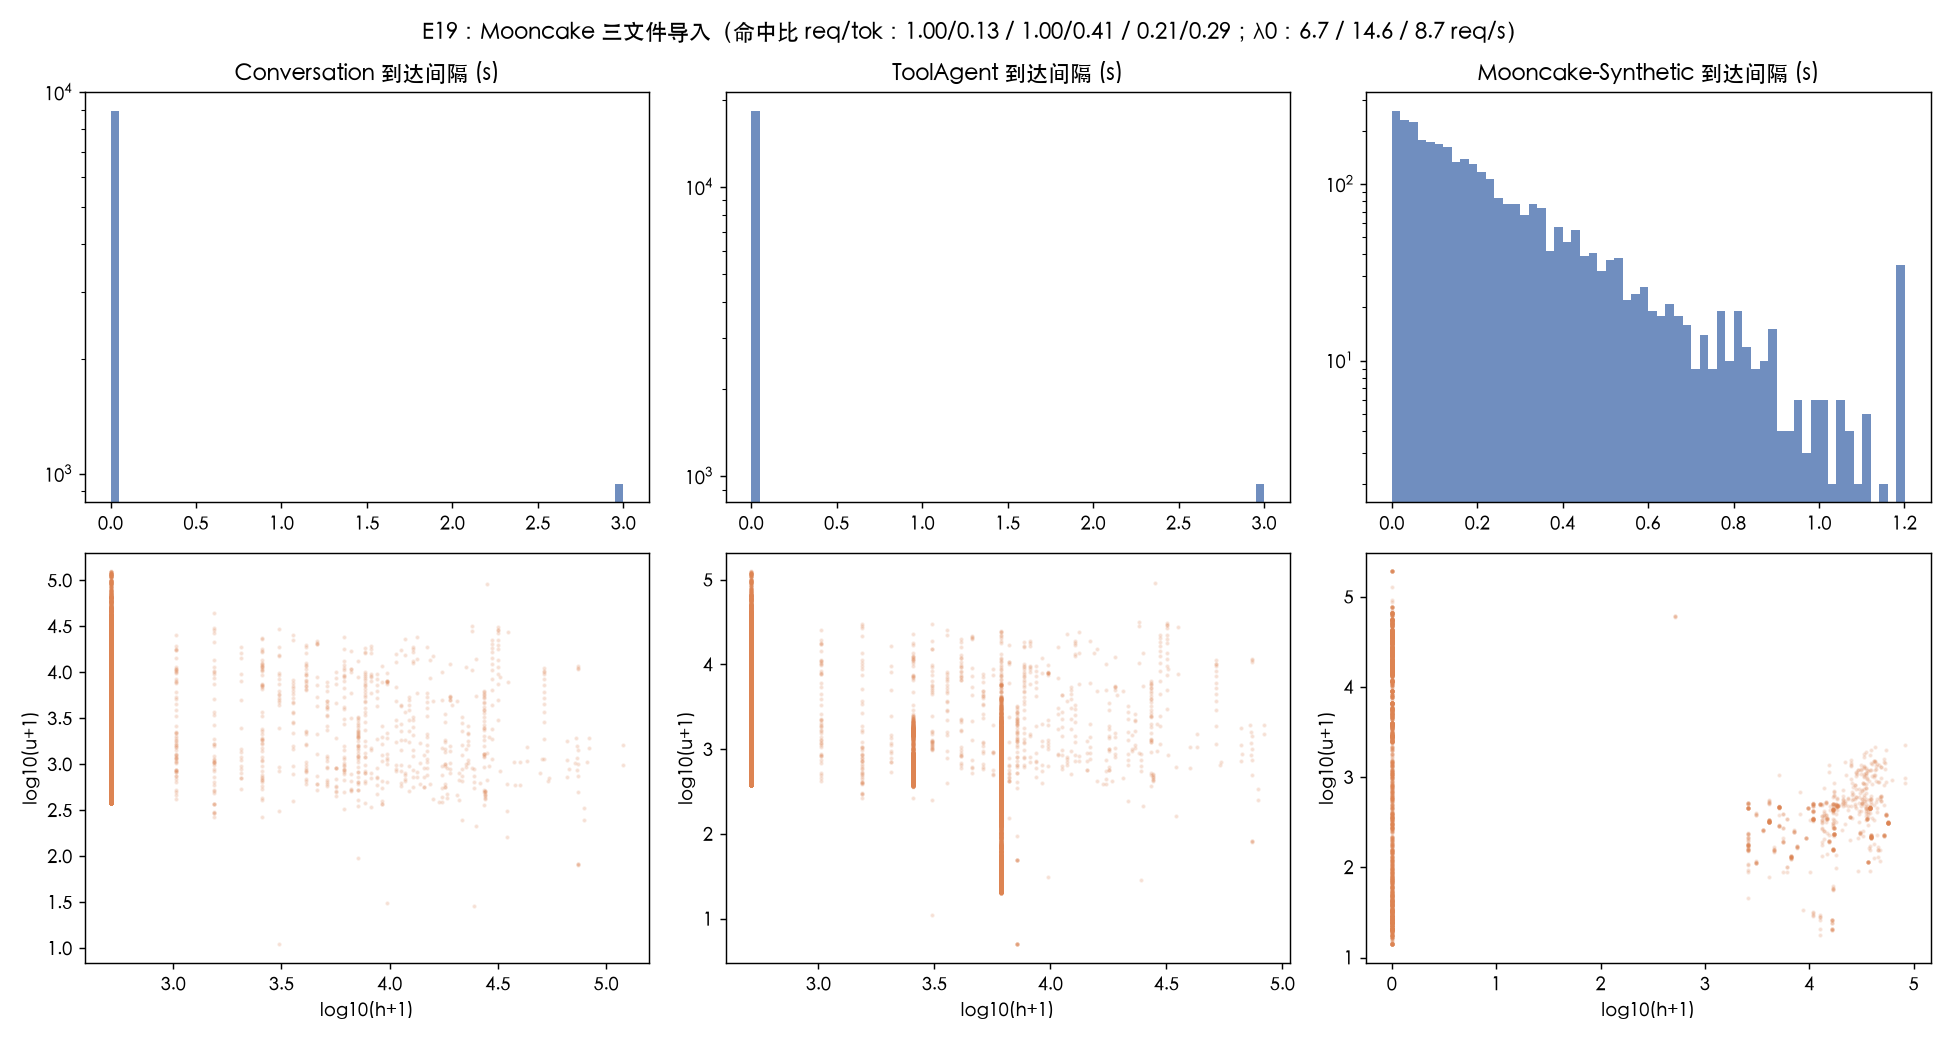
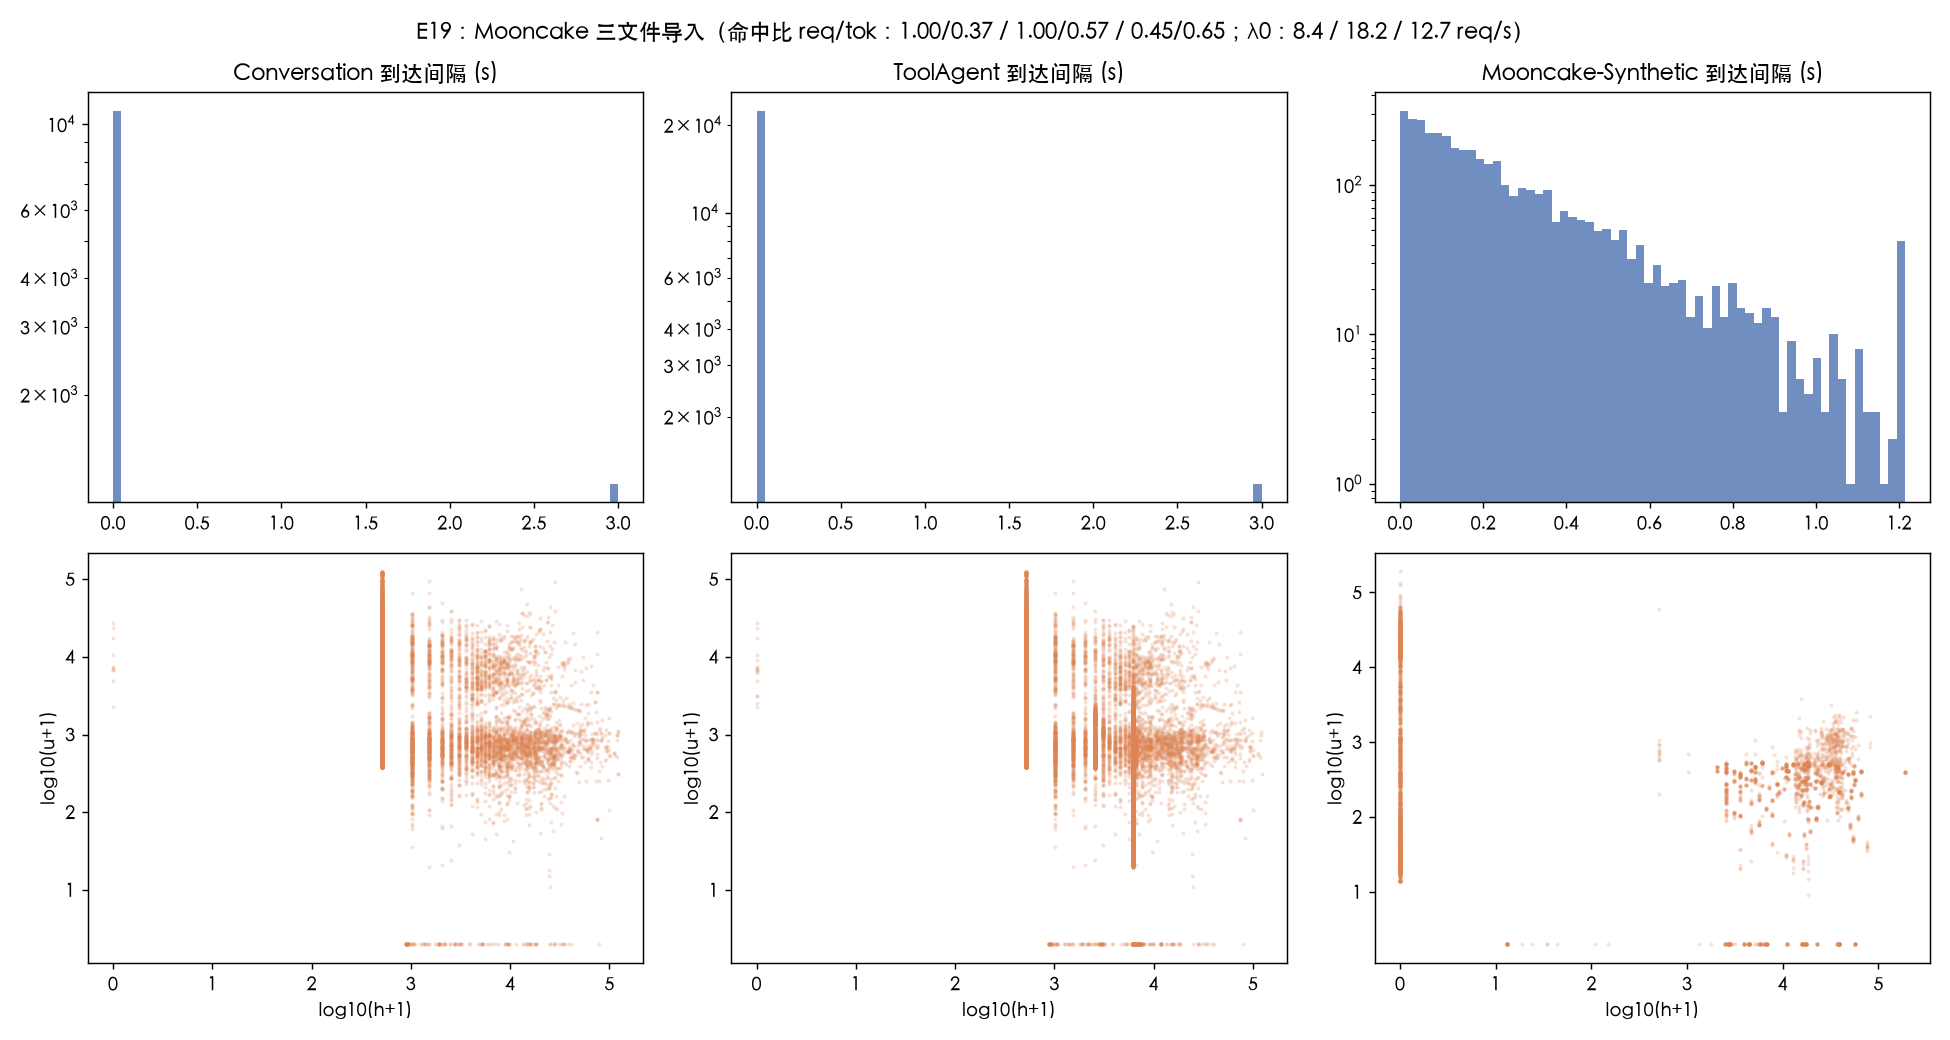
feat(cq): 命中模型 first_seen 全链路落地与冒烟重跑(变更设计 v1.4 第③-⑤步)
- E19 报告切换 first_seen 统计(token 命中 0.374/0.570/0.651,λ0 全量重算
  8.35/18.18/12.65);E23 冒烟重跑 128 runs:收益显著放大(Slack 时延 -43.1%,
  MPC SLO +1.28pp),新增负收益格点如实保留(synthetic ρ=0.9 FCFS 反而最好);
  E21 G=1.000-1.001(组批仍不省计算,结论方向保持)
- manifest 升 v2:登记 first_seen 指纹/统一窗口/在线参数/gate=0/D6 判据
- 测试报告新增 §5.5 命中模型变更与冒烟重跑(新旧口径对照表,声明不可混用)
- 大白话解读 §3.2/3.3 重写为首现命中+全量打分讲解
- 图重新发布;全量 pytest 118 passed

diff --git a/sim/experiments/e19_profile.py b/sim/experiments/e19_profile.py
@@ -147,9 +147,9 @@ def main(seeds, procs=None, duration=150.0, stage="smoke",
                            s=2, alpha=.15, color="#DD8452")
         axes[1, j].set_xlabel("log10(h+1)"); axes[1, j].set_ylabel("log10(u+1)")
         labels.append(TRACE_LABEL[fname])
-        hit_r.append(rep_imp[fname]["hit_ratio_req"])
-        hit_t.append(rep_imp[fname]["hit_ratio_token"])
-        lam0s.append(rep_imp[fname]["lam0"])
+        hit_r.append(rep_imp[fname]["request_hit_ratio"])
+        hit_t.append(rep_imp[fname]["token_hit_ratio"])
+        lam0s.append(rep_imp[fname]["lam0_full_trace"])
     fig.suptitle("E19：Mooncake 三文件导入（命中比 req/tok：" +
                  " / ".join(f"{a:.2f}/{b:.2f}" for a, b in zip(hit_r, hit_t)) +
                  f"；λ0：" + " / ".join(f"{x:.1f}" for x in lam0s) + " req/s）")

diff --git a/sim/experiments/e23_trace.py b/sim/experiments/e23_trace.py
@@ -169,7 +169,7 @@ def main(seeds, procs=None, duration=150.0, stage="smoke",
     fig.savefig(os.path.join(d, "fig_e23_slo_load.png"), dpi=130)
     plt.close(fig)
     print_progress(f"E23 done -> {d} ({len(recs)} runs)")
-    return {"n_runs": len(recs), "b_star": bstars}
+    return {"n_runs": len(recs), "note": "全 baseline 完整展示,配对收益仅相对 FCFS(D6)"}
 
 
 if __name__ == "__main__":

diff --git a/大白话解读-共享KV组批错峰仿真实施-20260915.md b/大白话解读-共享KV组批错峰仿真实施-20260915.md
@@ -165,46 +165,34 @@ Mooncake 公开发布了三份 trace,每行一条请求,字段只有四个:
 
 output_length 本实验不用(不模拟解码)。**trace 里没有"命中长度"这个字段**——第 2 节说的 h_tokens 是我们按下面的规则从 hash_ids 推导出来的。
 
-### 3.2 hash_ids 是什么,怎么变成 h 和 u
+### 3.2 hash_ids 是什么,怎么变成 h 和 u(首现命中模型)
 
 hash_ids 的含义:把这条输入按顺序切成 512 token 一块(最后一块可能不满),每块算一个**内容指纹**(哈希)。内容相同的块指纹相同,所以 hash_ids 就是这条输入的"内容路径":[指纹1, 指纹2, …],长度 = ⌈input_length/512⌉。
 
-推导 h(命中前缀)分四步:
+**当前口径(2026-09-15 起,first_seen)**:对整份 trace 按时间预扫一遍,维护一个"已见指纹集合",规则四条:
 
-1. **建目录**:取每份 trace 时间最早的 20% 请求,把它们的**完整块**(不满 512 的尾块不算)逐条插入一棵前缀树。这棵树就是"系统里已驻留的 KV cache 目录"(frozen_history_catalog)。
-2. **查询**:对之后(训练段/评价段)的每条请求,拿自己的指纹序列**从第一块开始沿树走,走到第一个不在树上的块就停**,得到连续命中的完整块数 k。
-3. **换算**:h = min(512·k, input_length − 1);u = input_length − h。哪怕整条输入都命中,也至少留 1 个 token 现场计算。
-4. 三个文件的目录互相隔离(不跨文件命中);**运行期间目录不增不减**。
+1. **首现未命中、再现命中**:某指纹在更早的请求里出现过 → 该块命中;全局第一次出现 → 未命中;
+2. **连续前缀**:从自己的第一块开始连续检查,遇到第一个未命中的块就停——指纹在中间断开出现过不算;
+3. **同刻并发互相不可见**:同一毫秒到达的请求是并行执行的,第二条开始时第一条的 KV 还没写进缓存——所以同一 timestamp 的请求组互相不可见,整组处理完后才把指纹放入集合(实测 conversation/toolagent 同刻并发占 100%,平均每毫秒 10–20 条);
+4. **尾块(不满 512 的零头)也参与**:指纹是内容的指纹(数据检验:同一指纹从没以两种不同长度出现过),照常判定;尾块也命中 = 全命中,仍留 1 个 token 现场算。
 
-三个数字例子:
+预扫结果作为字段(hit_tokens/u_tokens)写进派生 trace 文件,仿真直接读取——**每条请求的命中是预先算好的、与任何策略的运行无关**,所有策略面对完全相同的命中机会。
 
-| 请求 | 目录里有什么 | 结果 |
-|---|---|---|
-| input=700,指纹 [A, B] | A 在(某条早期请求以 A 开头) | 完整块只有 1 个(尾块 188 不满);k=1 → **h=512, u=188** |
-| input=1024,指纹 [A, B] | A→B 整条路径都在 | k=2 → h=min(1024,1023)=**1023, u=1**(全命中,留一口现场算) |
-| input=1000,指纹 [A, C, D] | A 下面只有别的分支,没有 C | k=1 → **h=512, u=488** |
+数字例子:请求 #1 [A,B] 首现 → h=0;下一毫秒请求 #2 [A,C] → A 已见 → h=512、u=512;与 #2 同毫秒的请求 #3 [A,D] → 仍 h=0(同刻不可见)。
 
-**关键点:命中必须是从头开始的连续块**。指纹 C 哪怕在目录别的位置出现过,C 及之后也不能算——前缀树结构天然保证了这一点,不会退化为"出现过就算"。
+三份文件的新口径统计:
 
-### 3.3 为什么目录要冻结;数据怎么切
+| 文件 | 请求数 | token 命中 | u 中位数 | 并发结构(时刻数/最大同刻组) |
+|---|---:|---:|---:|---|
+| conversation | 12,031 | 37.4% | 2010 | 1,180 / 28 |
+| toolagent | 23,608 | 57.0% | 681 | 1,180 / 47 |
+| synthetic(**官方合成,非真实流量**) | 3,993 | 65.1% | 348 | 3,982 / 2 |
 
-如果模拟运行中动态更新缓存(谁完成就缓存谁的结果),**完成快的策略会自己制造出更多命中**,收益里就混进了缓存机制的效果,不再是纯调度对比。所以目录只用最早 20% 建好、然后冻结,所有策略面对**完全相同的命中机会**。
+(历史注:2026-09-15 之前用的是"冻结目录"口径——只用最早 20% 请求建缓存,之后不变;两种口径的数字不可混用,历史定义见规格 §5.5。)
 
-每份文件按时间切三段:
+### 3.3 数据怎么用:全量打分
 
-| 时间段 | 用途 |
-|---|---|
-| 最早 20% | 建缓存目录;**这段的请求不参与任何打分** |
-| 中间 20% | **训练段**(选 B\*、定参数),切 5 个时间块,编号 0–4 |
-| 最后 60% | **评价段**(正式打分),切 15 个时间块,编号 100–114 |
-
-按上述规则算出的三份文件统计(与规格验收表逐位一致):
-
-| 文件 | 请求数 | 建目录 | 后续 h>0 的请求比例 | token 命中比例 |
-|---|---:|---:|---:|---:|
-| conversation | 12,031 | 2,121 | 100% | 12.8% |
-| toolagent | 23,608 | 4,249 | 100% | 40.8% |
-| synthetic(**官方合成,非真实流量**) | 3,993 | 744 | 20.7% | 28.9% |
+trace 按时间切成 **20 个统一窗口(编号 0–19)**,全部参与打分——没有训练/评价/弃置段之分。窗口只是运行与统计的分片(配置信区间需要多个不重叠时间块)。跨窗口的缓存历史已由派生 hit 字段静态携带:窗口 14 的请求能命中窗口 3 出现过的前缀。实验配置中的"参数"(老化阈值、配对参考值等)全部**在线滚动**计算(只用已到达请求的信息,公式先验固定),不存在"调参阶段"。
 
 ### 3.4 时间缩放:ρ 是什么
 
